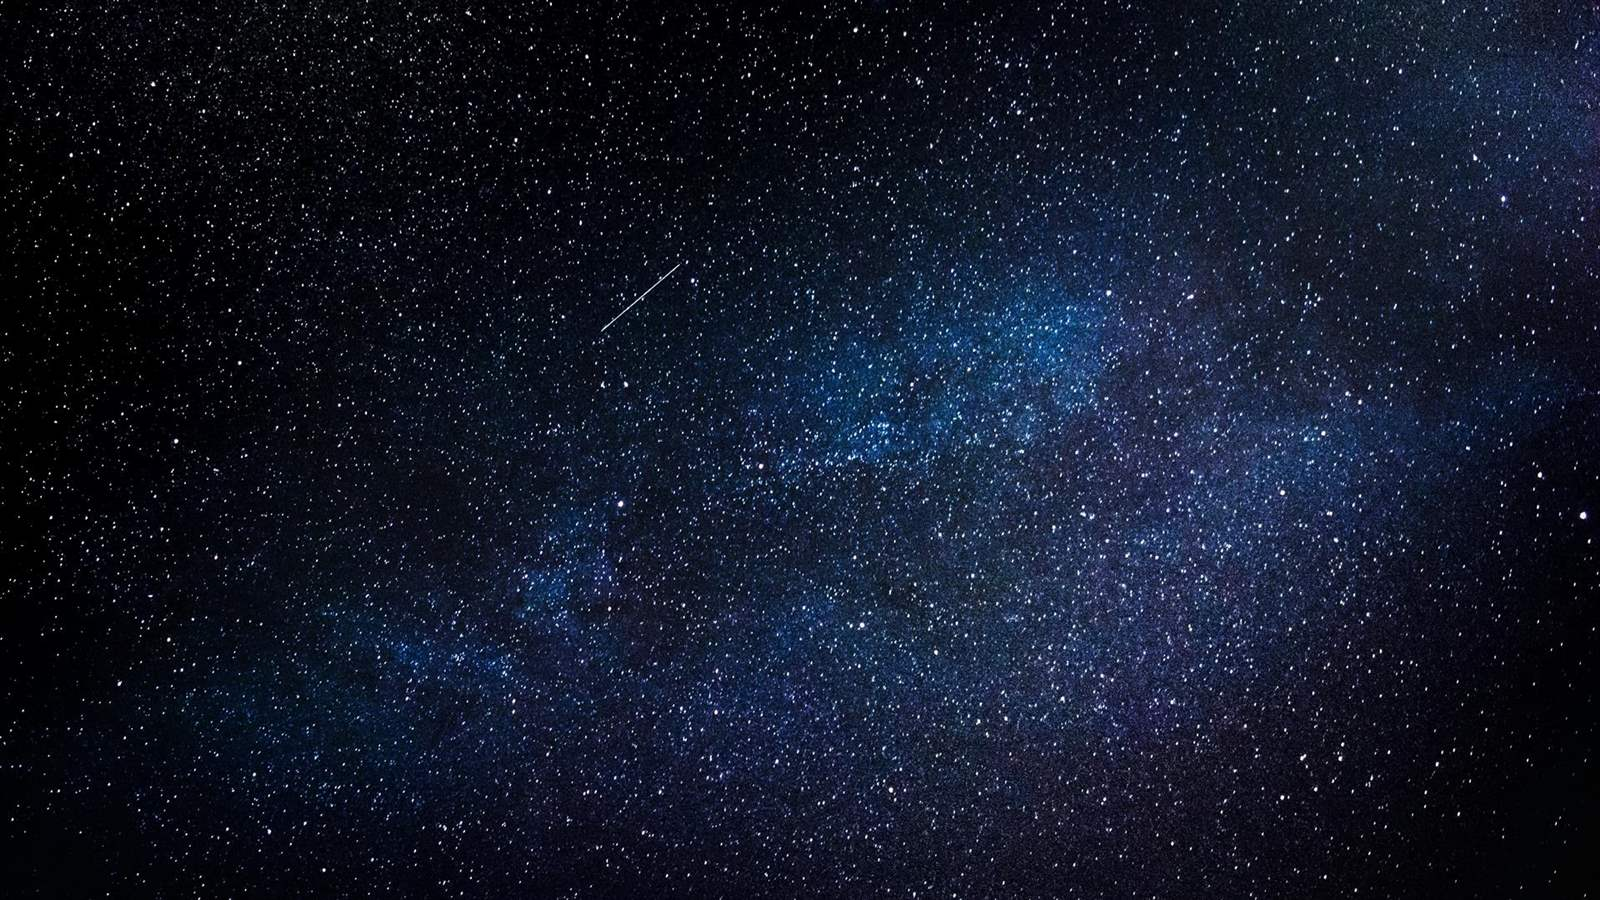
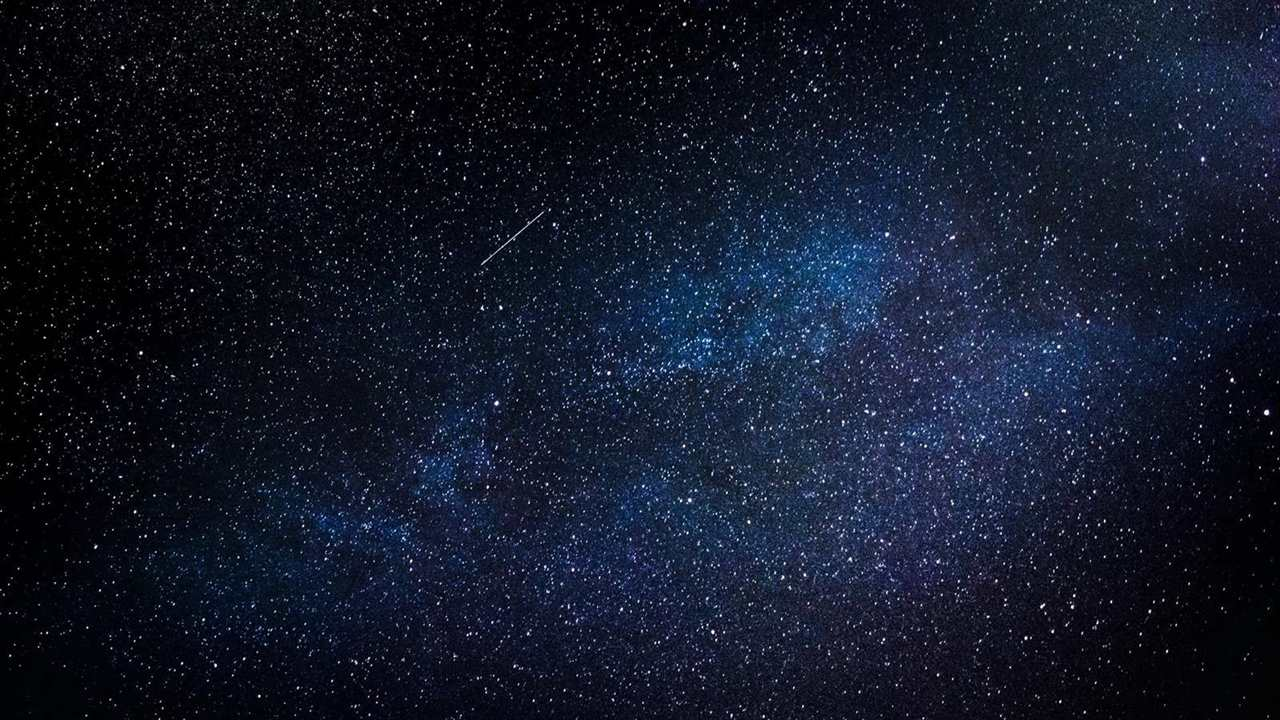
perf(mobile): preload LCP image, lazy load routes, and eliminate render-blocking CSS/JS

Changed region(s): [[0.5312, 0.4583, 0.5625, 0.4889]]

diff --git a/src/main.jsx b/src/main.jsx
@@ -1,34 +1,38 @@
-import React from "react";
+import React, { Suspense, lazy } from "react";
 import ReactDOM from "react-dom/client";
 import { BrowserRouter, Routes, Route } from "react-router-dom";
 import "./index.css";
 
-// Importación de páginas
+// Importación de página principal
 import App from "./App.jsx";
-import Characters from "./pages/People.jsx";
-import Starships from "./pages/Starships.jsx";
-import Planets from "./pages/Planets.jsx";
-import Vehicles from "./pages/Vehicles.jsx";
-import Species from "./pages/Species.jsx";
-import NotFound from "./pages/NotFound.jsx";
+
+// Carga diferida de rutas internas para optimizar el bundle inicial
+const Characters = lazy(() => import("./pages/People.jsx"));
+const Starships = lazy(() => import("./pages/Starships.jsx"));
+const Planets = lazy(() => import("./pages/Planets.jsx"));
+const Vehicles = lazy(() => import("./pages/Vehicles.jsx"));
+const Species = lazy(() => import("./pages/Species.jsx"));
+const NotFound = lazy(() => import("./pages/NotFound.jsx"));
 
 ReactDOM.createRoot(document.getElementById("root")).render(
   <React.StrictMode>
     <BrowserRouter basename="/">
-      <Routes>
-        {/* Página principal */}
-        <Route path="/" element={<App />} />
+      <Suspense fallback={null}>
+        <Routes>
+          {/* Página principal */}
+          <Route path="/" element={<App />} />
 
-        {/* Rutas internas */}
-        <Route path="/characters" element={<Characters />} />
-        <Route path="/starships" element={<Starships />} />
-        <Route path="/planets" element={<Planets />} />
-        <Route path="/vehicles" element={<Vehicles />} />
-        <Route path="/species" element={<Species />} />
+          {/* Rutas internas */}
+          <Route path="/characters" element={<Characters />} />
+          <Route path="/starships" element={<Starships />} />
+          <Route path="/planets" element={<Planets />} />
+          <Route path="/vehicles" element={<Vehicles />} />
+          <Route path="/species" element={<Species />} />
 
-        {/* Manejo de página no encontrada */}
-        <Route path="*" element={<NotFound />} />
-      </Routes>
+          {/* Manejo de página no encontrada */}
+          <Route path="*" element={<NotFound />} />
+        </Routes>
+      </Suspense>
     </BrowserRouter>
   </React.StrictMode>
 );

diff --git a/index.html b/index.html
@@ -7,9 +7,19 @@
     <meta name="author" content="Sergio Coitiño">
     <title>Star Wars App</title>
 
+    <link rel="preload" as="image" href="/1.jpg" fetchpriority="high">
+
     <link rel="preconnect" href="https://fonts.googleapis.com">
     <link rel="preconnect" href="https://fonts.gstatic.com" crossorigin>
-    <link href="https://fonts.googleapis.com/css2?family=Roboto:wght@300;400;500;700&display=swap" rel="stylesheet">
+    <link href="https://fonts.googleapis.com/css2?family=Roboto:wght@300;400;500;700&display=swap" rel="stylesheet" media="print" onload="this.media='all'">
+    <noscript>
+      <link href="https://fonts.googleapis.com/css2?family=Roboto:wght@300;400;500;700&display=swap" rel="stylesheet">
+    </noscript>
+
+    <link rel="stylesheet" href="https://cdnjs.cloudflare.com/ajax/libs/font-awesome/6.5.1/css/all.min.css" media="print" onload="this.media='all'">
+    <noscript>
+      <link rel="stylesheet" href="https://cdnjs.cloudflare.com/ajax/libs/font-awesome/6.5.1/css/all.min.css">
+    </noscript>
 
     <link rel="apple-touch-icon" sizes="180x180" href="/apple-touch-icon.png">
     <link rel="icon" type="image/png" sizes="32x32" href="/favicon-32x32.png">
@@ -18,7 +28,6 @@
   </head>
   <body>
     <div id="root"></div>
-    <script src="https://kit.fontawesome.com/e499239b02.js" crossorigin="anonymous" defer></script>
 
     <script type="module" src="/src/main.jsx"></script>
   </body>

diff --git a/src/App.jsx b/src/App.jsx
@@ -5,13 +5,14 @@ import Header from "./components/Header";
 import Footer from "./components/Footer";
 import Hero from "./components/Hero";
 
-import Img1 from "./assets/1.jpg";
 import Img2 from "./assets/2.jpg";
 import Img3 from "./assets/3.jpg";
 import Img4 from "./assets/4.jpg";
 import Img5 from "./assets/5.jpg";
 
 import "./App.css";
+
+const Img1 = "/1.jpg";
 
 export default function App() {
 
@@ -46,8 +47,9 @@ export default function App() {
                   alt={item.label}
                   width="430"
                   height="350"
-                  loading={index < 2 ? "eager" : "lazy"}
+                  loading={index === 0 ? "eager" : "lazy"}
                   fetchPriority={index === 0 ? "high" : "auto"}
+                  decoding={index === 0 ? "sync" : "async"}
                 />
                 <span className="col-title">
                   {item.label}
